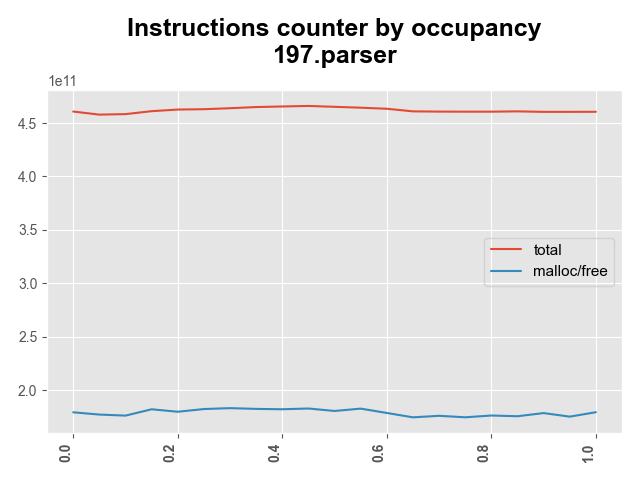
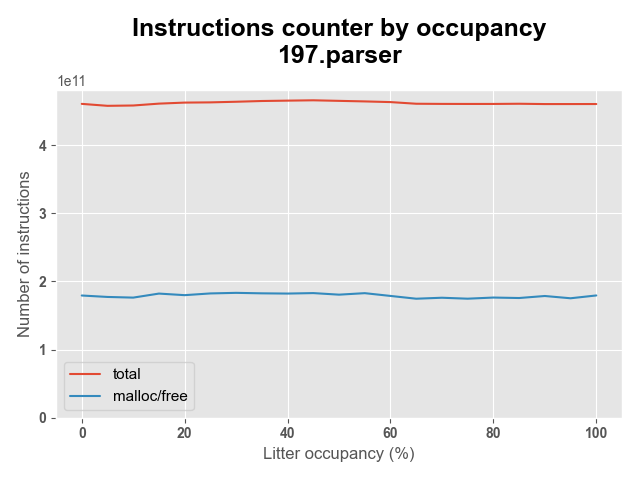
Add axis labels to second set of graphs

diff --git a/scripts/separated_graph.py b/scripts/separated_graph.py
@@ -71,11 +71,16 @@ def parse_runs(filename):
     return sorted(runs, key = lambda x: x["occupancy"])
 
 
-malloc_object = "/home/nvankempen/Programming/nicovank/allocators/jemalloc/lib/libjemalloc.so.2"
-filename = "197.parser.jemalloc.shim.litter.record.log"
+malloc_object = "/usr/lib/x86_64-linux-gnu/libc.so.6"
+filename = "197.parser.shim.litter.record.log"
+
+# malloc_object = "/home/nvankempen/Programming/nicovank/allocators/jemalloc/lib/libjemalloc.so.2"
+# filename = "197.parser.jemalloc.shim.litter.record.log"
+
 event = "instructions"
 aggregate = statistics.median
-TITLE = "Cycles counter by occupancy\n197.parser, jemalloc"
+TITLE = "Instructions counter by occupancy\n197.parser"
+Y_LABEL = "Number of instructions"
 
 
 runs = parse_runs(filename)
@@ -107,19 +112,19 @@ for occupancy in grouped_by_occupancy.keys():
     in_malloc[occupancy] = aggregate(in_malloc[occupancy])
     total[occupancy] = aggregate(total[occupancy])
 
-x = np.array(list(map(float, total.keys())))
+x = 100 * np.array(list(map(float, total.keys())))
 ax.plot(x, list(total.values()), label="total")
 ax.plot(x, list(in_malloc.values()), label="malloc/free")
 
-# TODO: y-ticks are not bold.
-ticks = ax.get_xticklabels()
+ticks = ax.get_xticklabels() + ax.get_yticklabels()
 for tick in ticks:
     tick.set_fontweight("bold")
     tick.set_fontsize(10)
-    tick.set_horizontalalignment("center")
-plt.setp(ticks, ha='right', rotation=90)
+plt.ylim(bottom=0)
 
 ax.set_title(TITLE, pad=20, fontweight='bold', font=default_font, fontsize=18)
+ax.set_xlabel("Litter occupancy (%)")
+ax.set_ylabel(Y_LABEL)
 ax.legend()
 fig.tight_layout()
 plt.savefig("graph.png")
